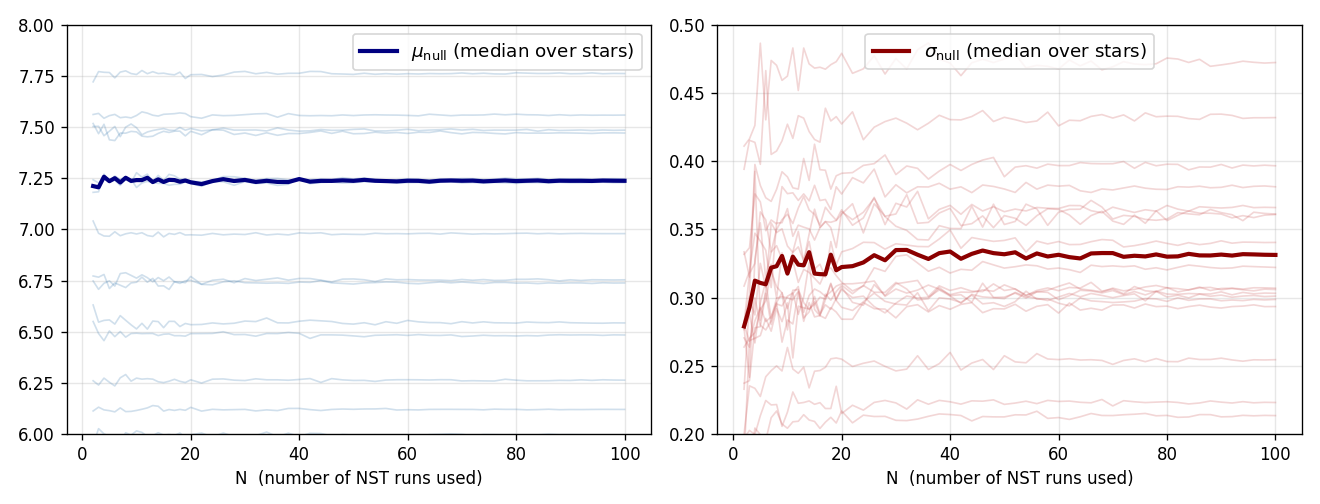
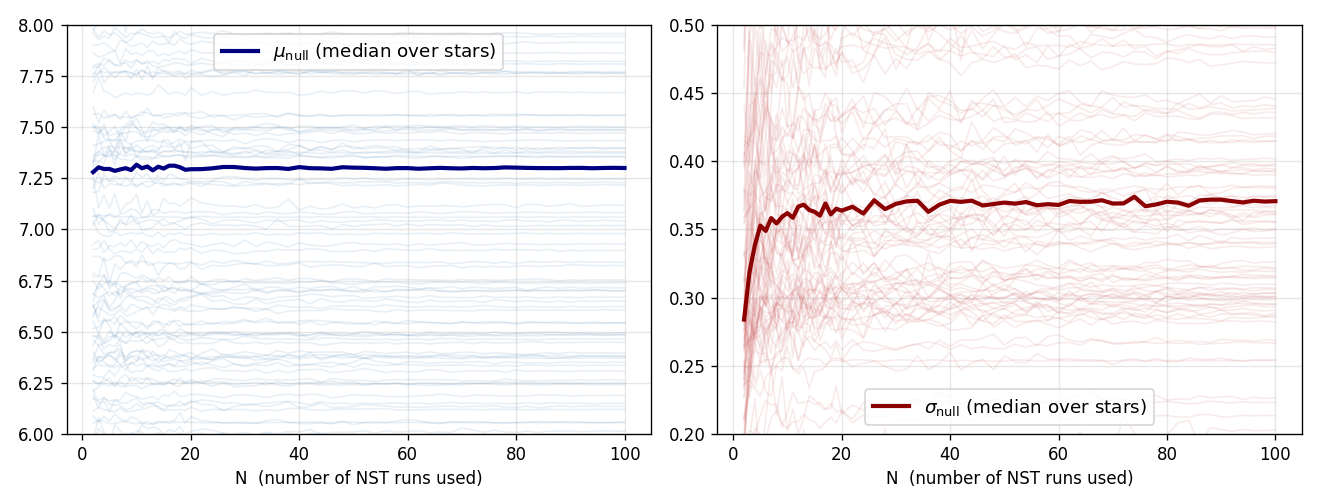
Plot 1: use 100 TICs (was 20); update overview.md count

diff --git a/overview.md b/overview.md
@@ -11,7 +11,7 @@ deviation of the maximum SNR recovered in each NST run on that star.
 
 ## How many NSTs are needed to estimate $\mu$ and $\sigma$?
 
-Using ~100 NST runs for each of 20 randomly selected stars, we track the running
+Using ~100 NST runs for each of 100 randomly selected stars, we track the running
 estimates of $\mu$ and $\sigma$ as a function of the number of NSTs used, $N$.
 
 ![Convergence of μ and σ with the number of NSTs](overview_nst_musigma.png)
